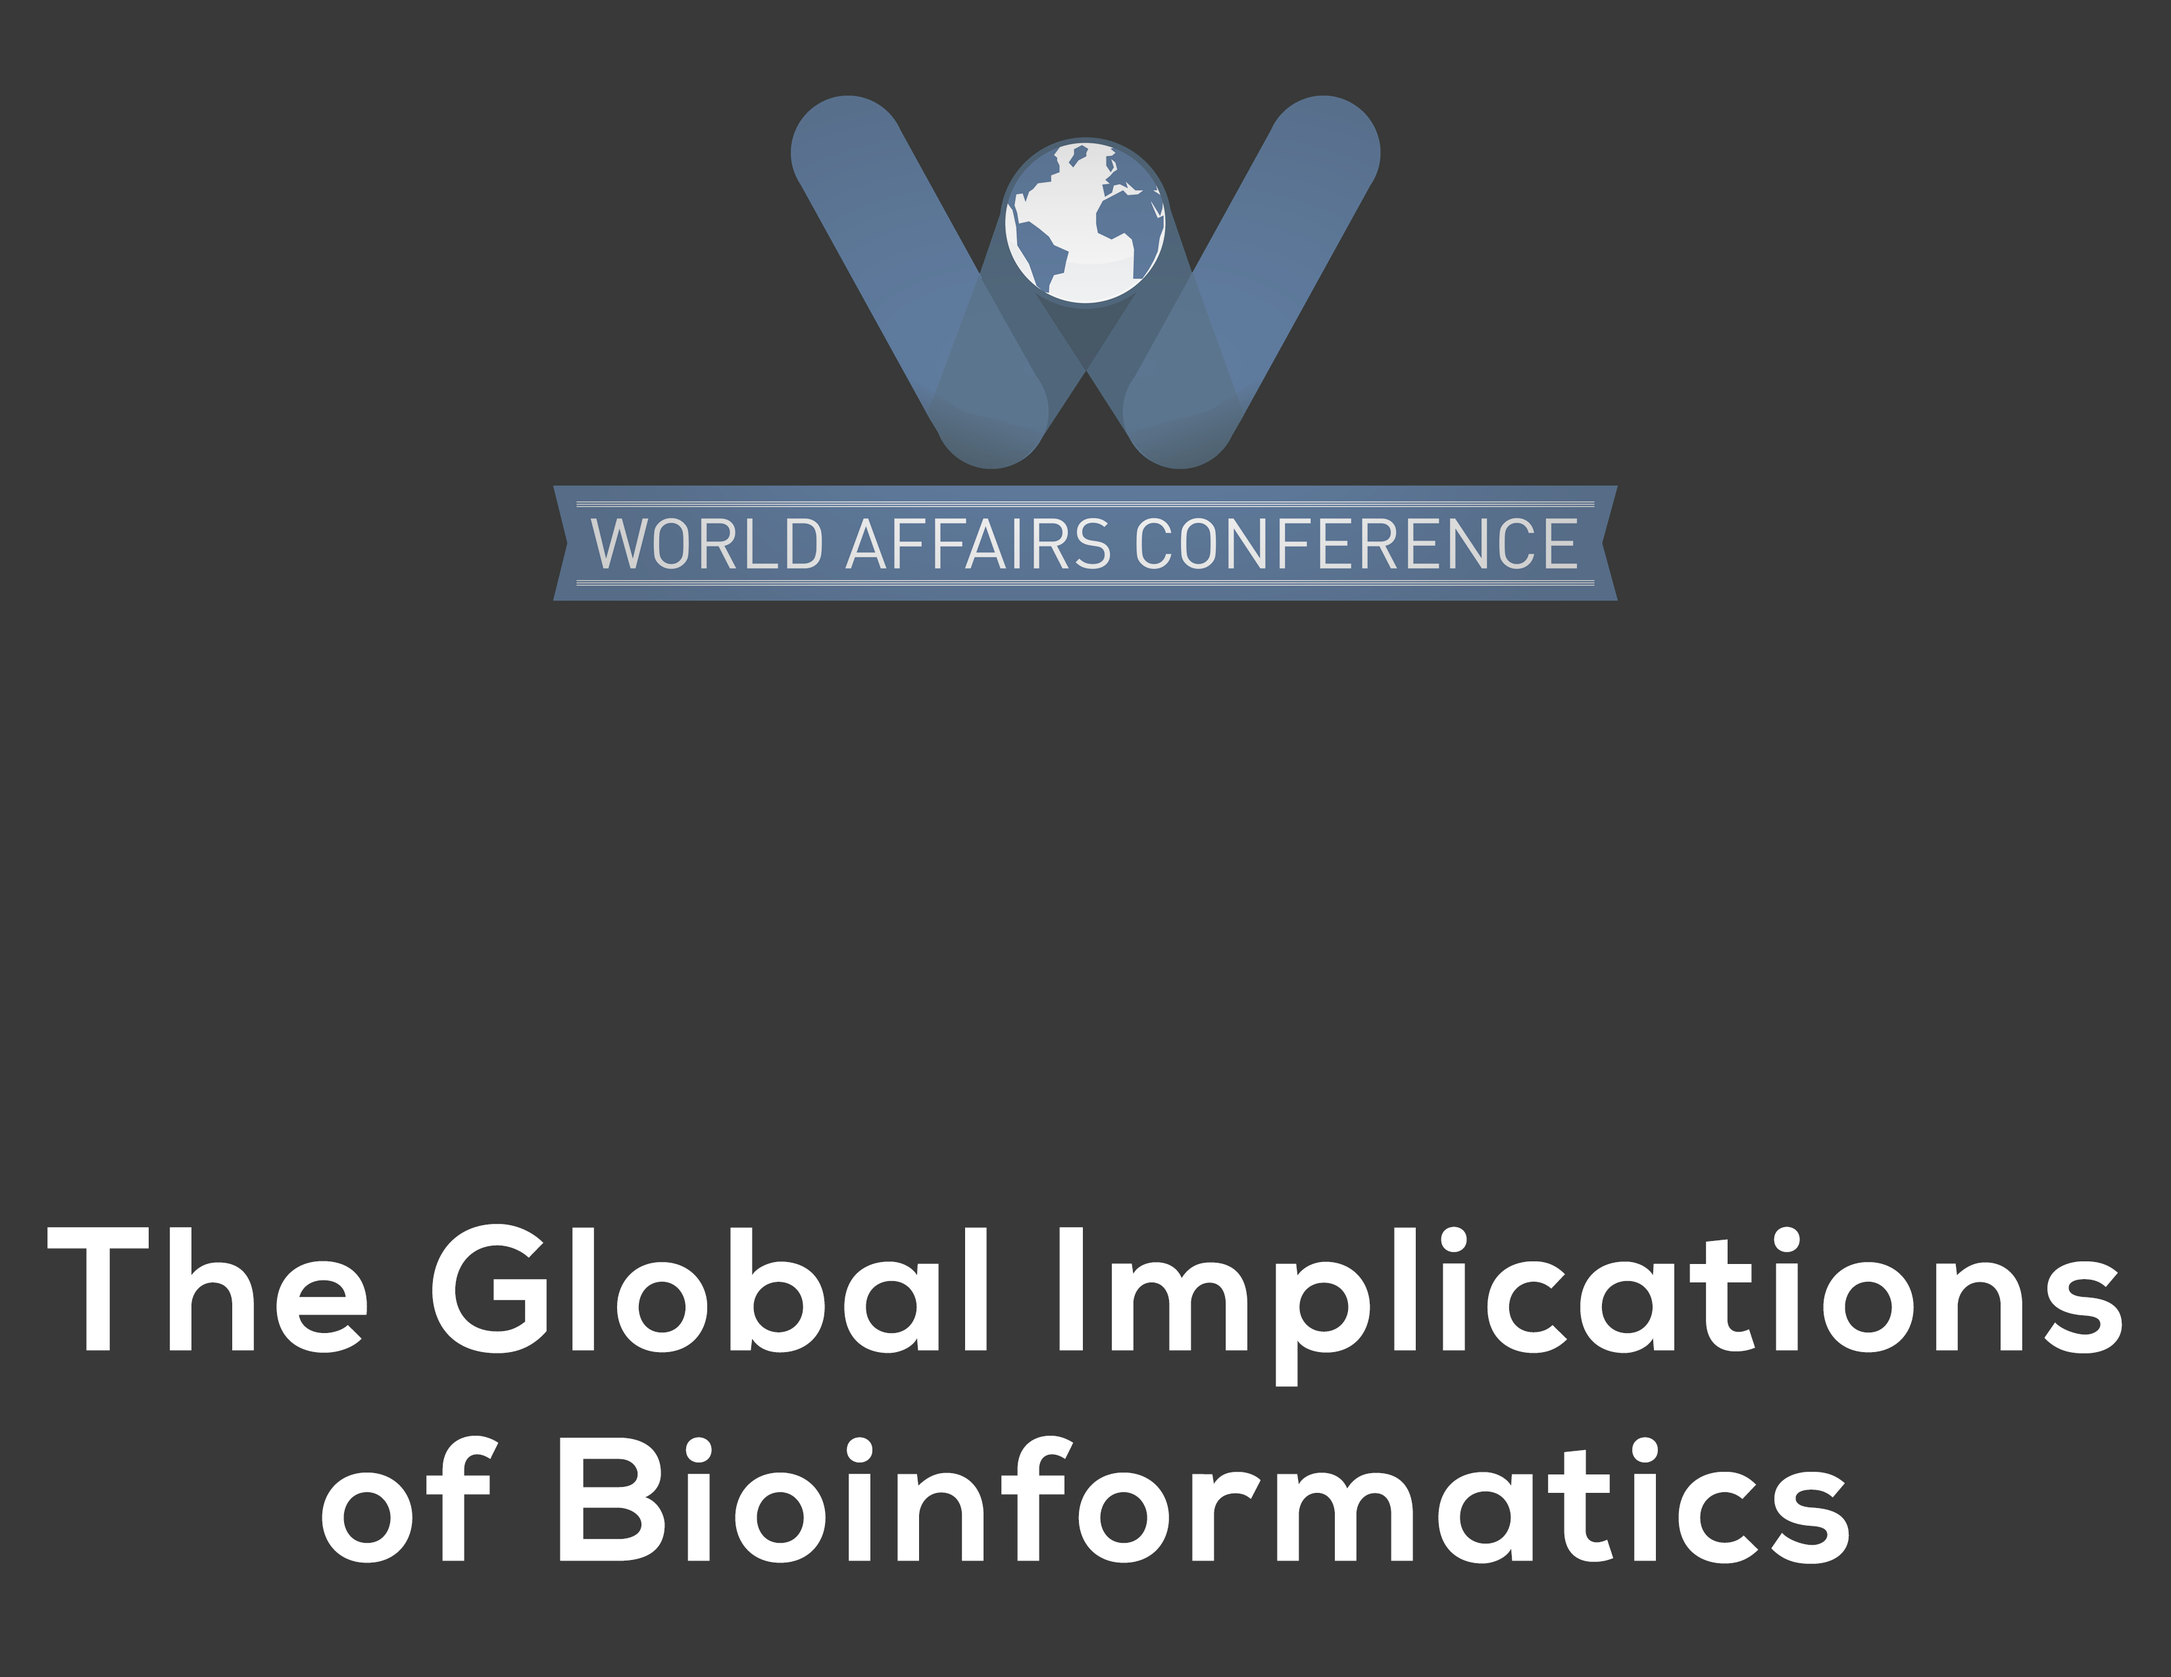
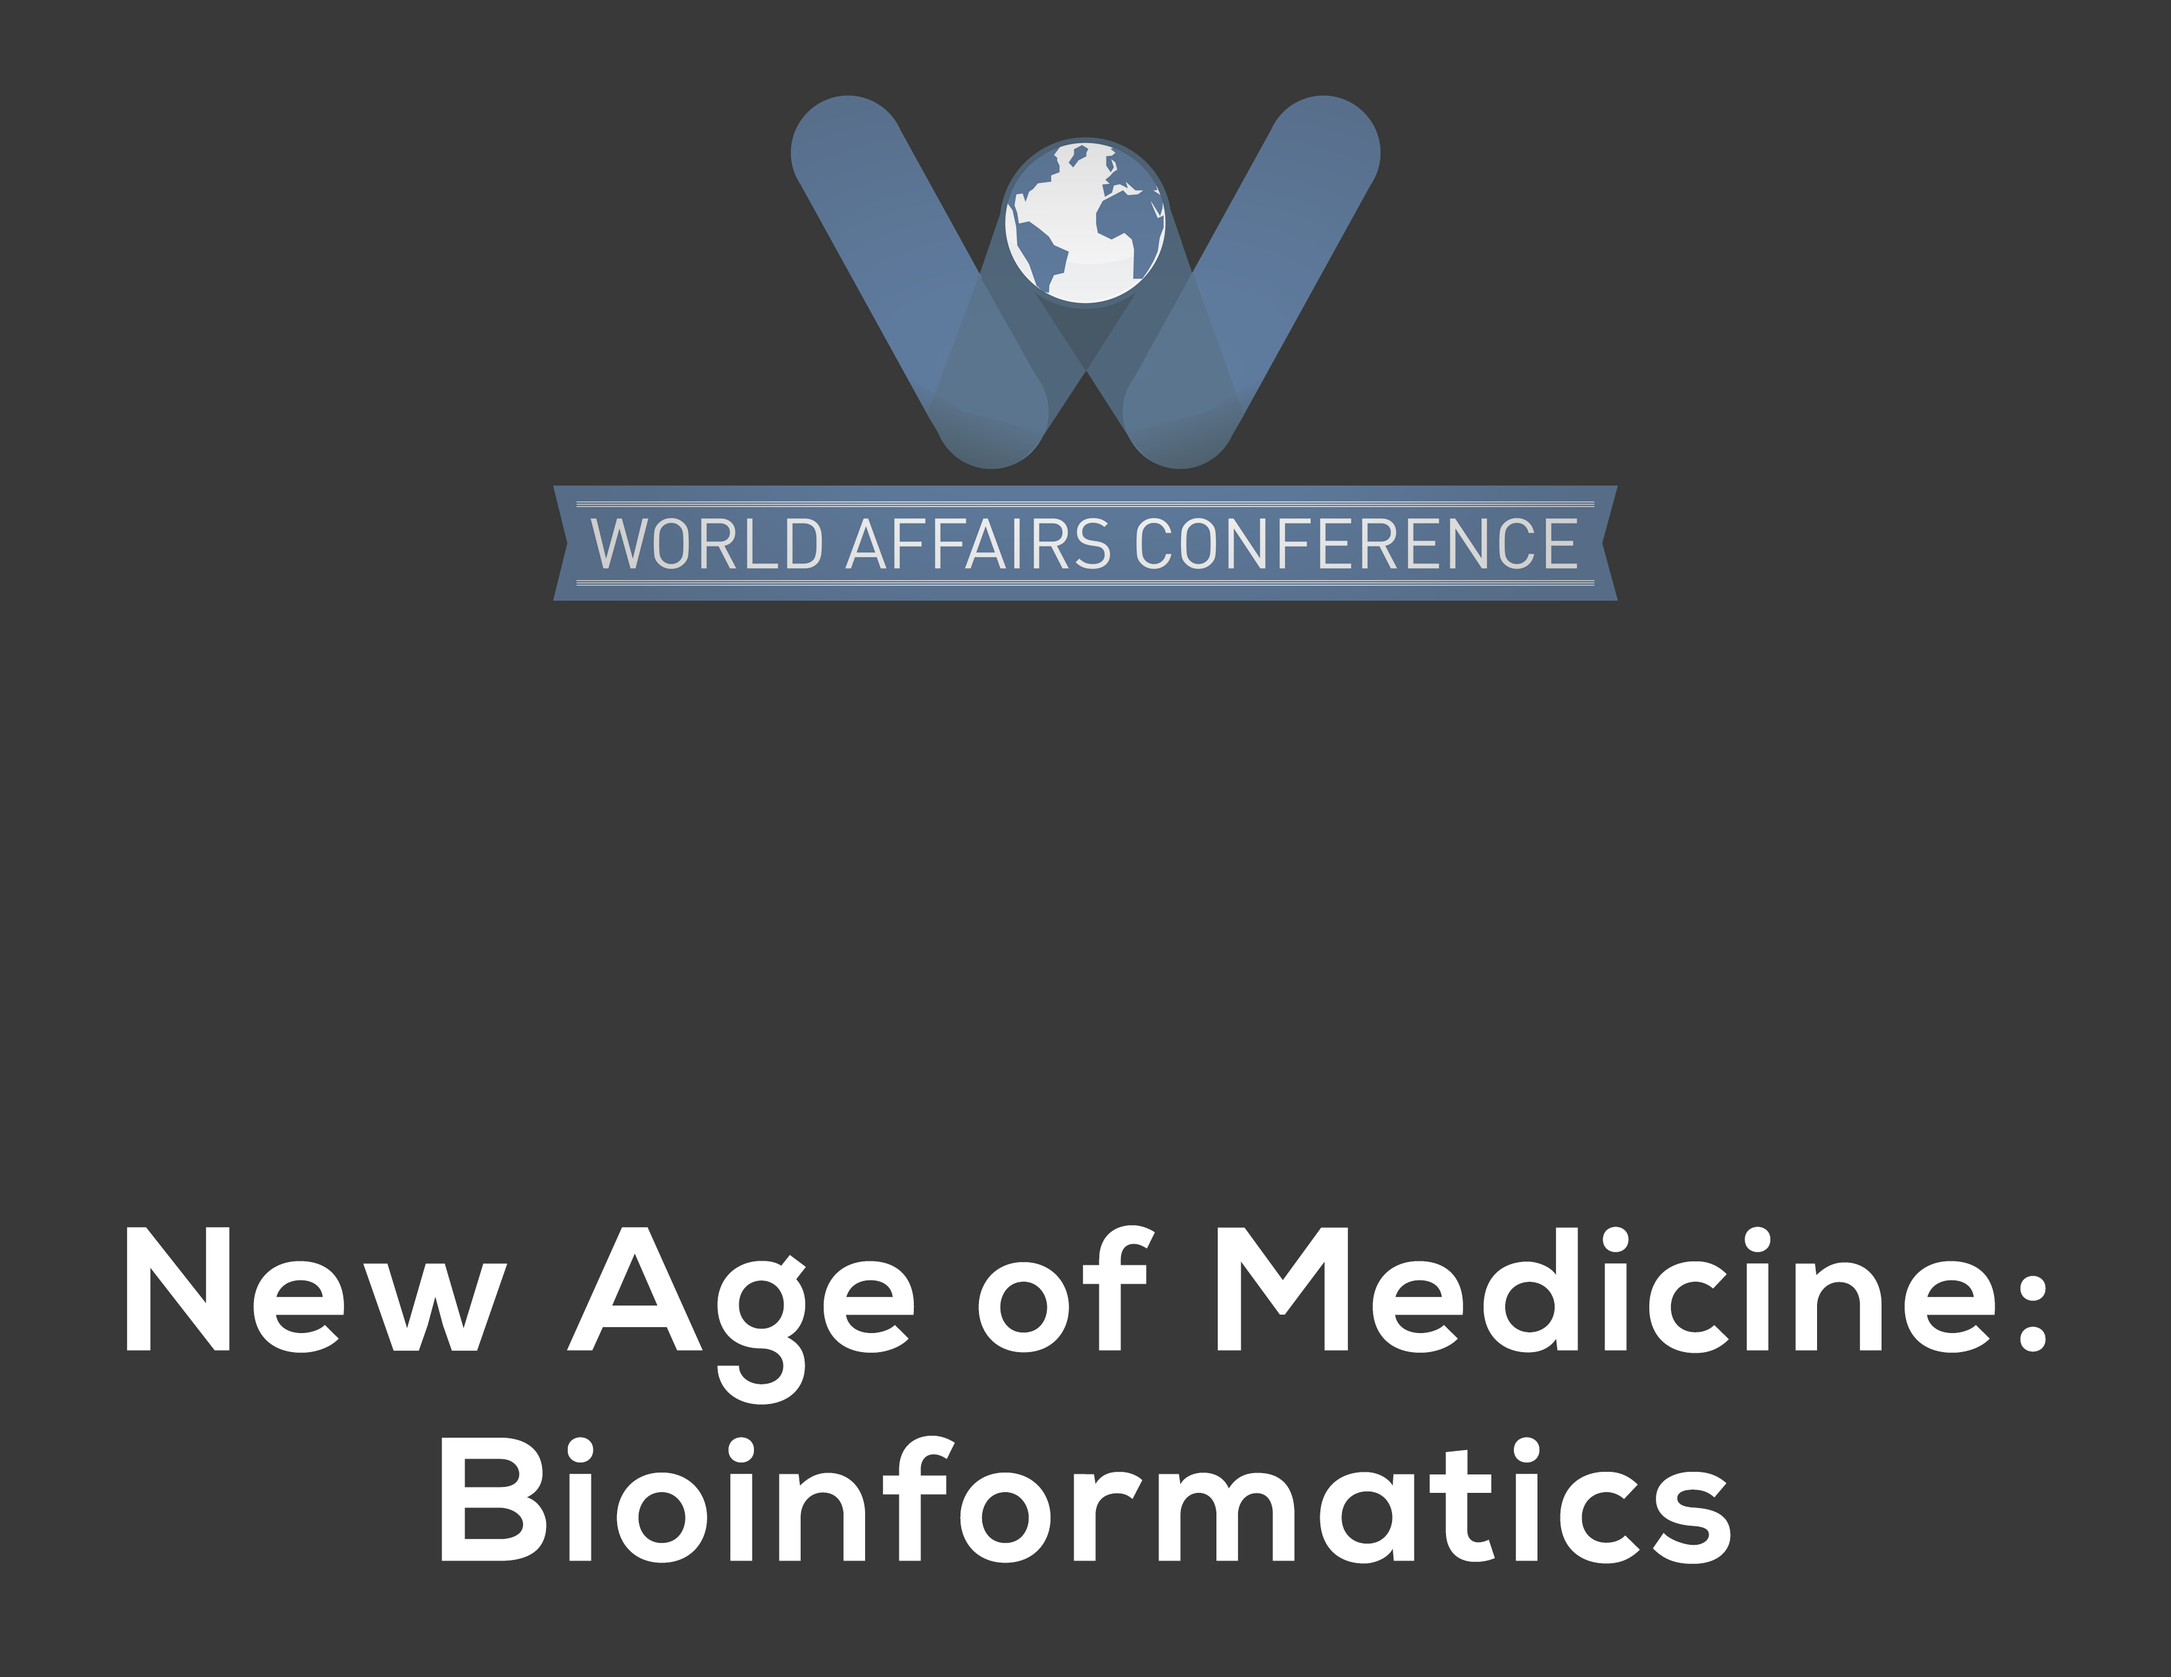
corrects plenary name, updates other info

Changed region(s): [[0.0, 0.7125, 0.9988, 0.9294]]

diff --git a/_plenaries/bioinformatics.md b/_plenaries/bioinformatics.md
@@ -1,12 +1,10 @@
 ---
 layout: plenary
-title: The Global Implications of Bioinformatics
+title: "The New Age of Medicine: Bioinformatics"
 pic: bioinformatics.png
 speaker1: jwzheng
 speaker2: athorogood
-shortbio: "This plenary is about bioinformatics."
+shortbio: "In the future, your eye could be scanned when you walk into work, your genetic makeup could be the passcode that lets you into your computer, or a hair from your head could let doctors know exactly what illnesses you get. But having access to this information is controversial. Should we be able to have access to this information?"
 ---
 
-Drones are scary dawg. They're like terminator, but they life and stuff. Lorem ipsum dolor sit amet, consectetur adipisicing elit, sed do eiusmod tempor incididunt ut labore et dolore magna aliqua. Ut enim ad minim veniam, quis nostrud exercitation ullamco laboris nisi ut aliquip ex ea commodo consequat. Duis aute irure dolor in reprehenderit in voluptate velit esse cillum dolore eu fugiat nulla pariatur. Excepteur sint occaecat cupidatat non proident, sunt in culpa qui officia deserunt mollit anim id est laborum. Lorem ipsum dolor sit amet, consectetur adipisicing elit, sed do eiusmod tempor incididunt ut labore et dolore magna aliqua. Ut enim ad minim veniam, quis nostrud exercitation ullamco laboris nisi ut aliquip ex ea commodo consequat. Duis aute irure dolor in reprehenderit in voluptate velit esse cillum dolore eu fugiat nulla pariatur. Excepteur sint occaecat cupidatat non proident, sunt in culpa qui officia deserunt mollit anim id est laborum.
-Dr. Jim W. Zheng
-Adrian Thorogood
+In the world today, jobs have become increasingly run by technology. This could mean that you having your eye scanned when you walk into work, or that your genetic makeup is the passcode that lets you into your computer. It could even mean that doctors will know exactly what illnesses you'll get, thanks to just a hair from your head. But having access to this information is controversial. Should we be able to have access to this information? Should we be using this data in our everyday lives, let alone the job market? Should this topic even be ethically explored? And, who else will get access to our information? There are many benefits to having this information, including being able to save lives with genetics, but the drawbacks include an intrusion of privacy and many more. It’s up to you to decide where you stand on the line.
